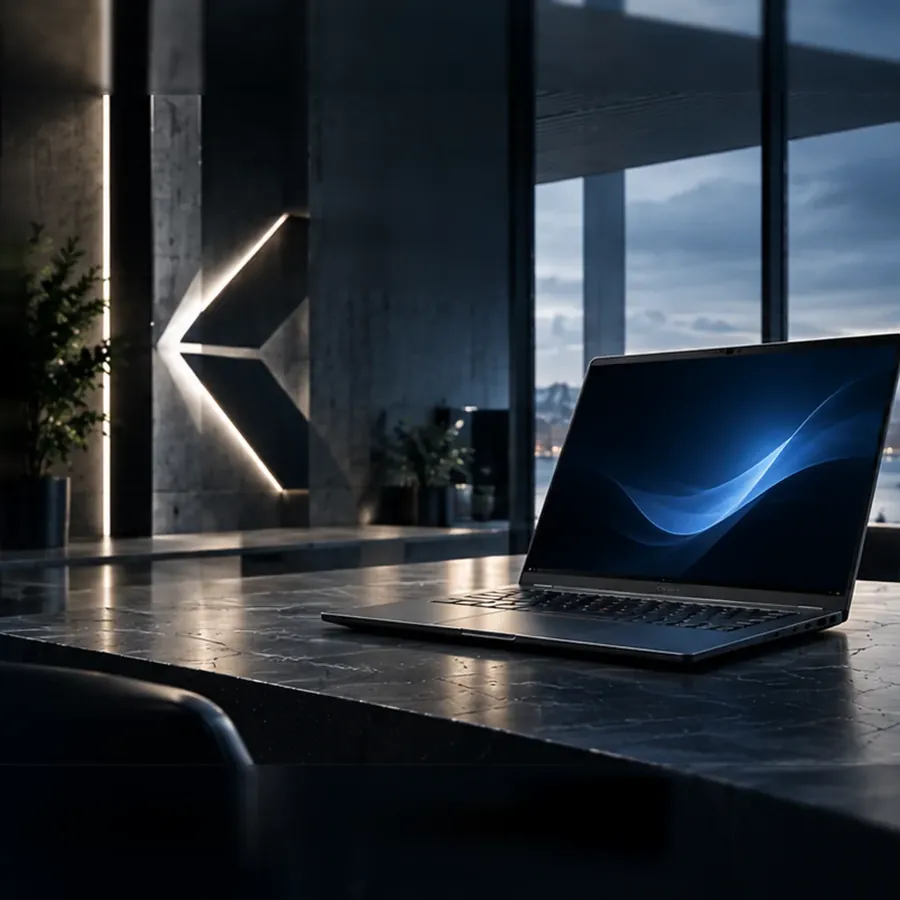
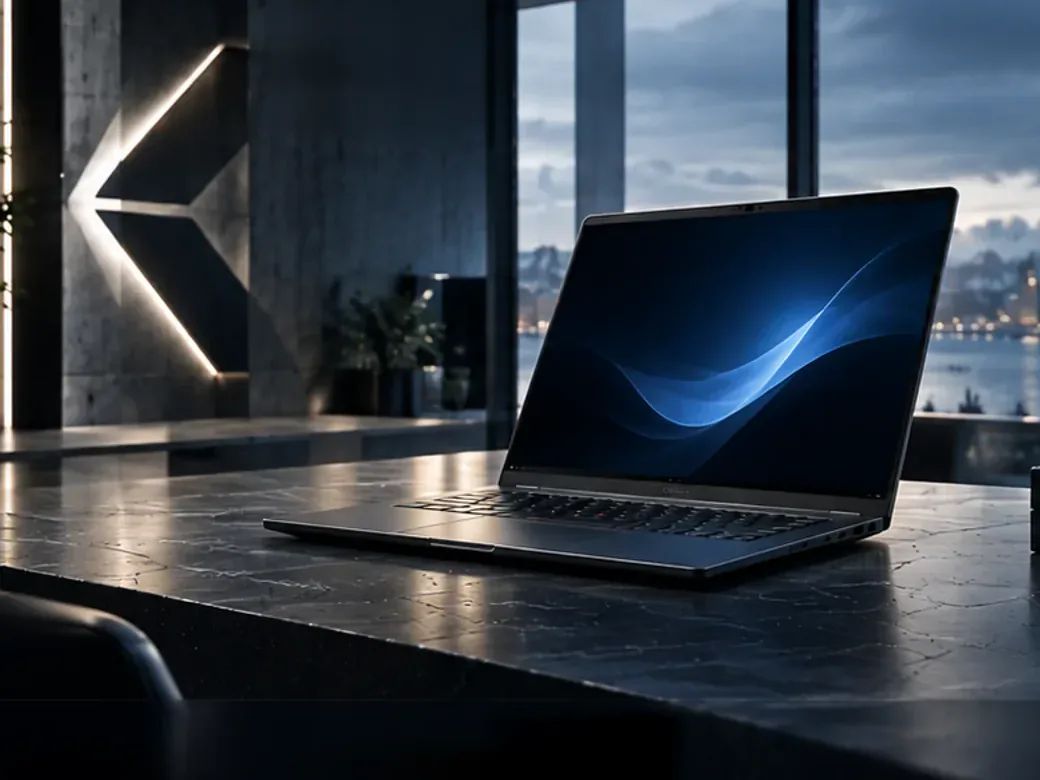
Mobile first screen: one sentence, the whole machine, three facts, no seam
Scored strictly at 390x740 (an iPhone 15 under Safari's floating bars),
375x553 and 430x830, from a phone screenshot of the live site: 6.4/10.

- The headline is sized to its longest word on a phone: 9.2vw, so
  "erhvervscomputere." fills the column (36px at 390, 29px at 320) instead
  of a 30px floor in a 358px column. From md the old sizing applies.
- The sub line is one sentence in one colour on a phone, balanced, with
  "erhvervs-IT" kept whole: as two block spans it broke into "…erhvervs-" /
  "IT til virksomheder" / a dimmer third line in Safari.
- One primary action: the second button is a quiet 44px link on a phone,
  not a second full-width bar of the same height.
- Three facts on the first screen — tested, Nordic keyboard, delivery to DK
  and NO — the feature strip's own, which it now leaves to wide screens so
  they are not said twice. Dots rather than icons, so the row holds one line
  from 320 up.
- The phone's picture is a new 4:3 cut from the cleaned plate with the whole
  machine and the lit K in frame (the square cut the laptop off), shorter
  fades, and tighter spacing above and below the copy, so it enters the
  first screen on a 390 phone.
- No seam: the bar's colour carries down into the hero on a phone, and the
  bar's hairline fades in with scroll (scroll-driven, Safari 26 and Chrome;
  elsewhere it stays as it was).

Measured after: tap targets 44px or more, accent line 5.00:1, no
[…]

diff --git a/components/Hero.tsx b/components/Hero.tsx
@@ -31,6 +31,7 @@ const copy = {
     subLead: "Kestro er leverandør af brugt erhvervs-IT til virksomheder",
     sub: "i Danmark og Norge – testet og klar til brug.",
     secondary: "Se hvad vi skaffer",
+    proof: ["Testet", "Nordisk tastatur", "Levering i DK & NO"],
   },
   en: {
     headlineTop: ["Refurbished", "business computers."],
@@ -38,8 +39,26 @@ const copy = {
     subLead: "Kestro is a supplier of used business IT to companies",
     sub: "in Denmark and Norway — tested and ready to use.",
     secondary: "Explore computers",
+    proof: ["Tested", "Nordic keyboard", "Delivery to DK & NO"],
   },
 } satisfies Record<Lang, Record<string, string | string[]>>;
+
+/* "erhvervs-IT" as one unbreakable unit. A browser may break a line after a
+   hyphen, and Safari did exactly that on an iPhone; a nowrap span keeps the
+   word in the text as written, which a non-breaking hyphen character would
+   not. */
+function keepTerm(text: string) {
+  const term = "erhvervs-IT";
+  const i = text.indexOf(term);
+  if (i < 0) return text;
+  return (
+    <>
+      {text.slice(0, i)}
+      <span className="whitespace-nowrap">{term}</span>
+      {text.slice(i + term.length)}
+    </>
+  );
+}
 
 export default function Hero({ lang }: { lang: Lang }) {
   const c = copy[lang];
@@ -126,6 +145,15 @@ export default function Hero({ lang }: { lang: Lang }) {
         fetchPriority="high"
       />
 
+      {/* The header's own colour carried down into the hero on a phone. The
+          bar ends on rgb(4 8 18) and the hero starts on brand-950, so the two
+          met on a visible step; this lets the bar dissolve into the page. */}
+      <div
+        aria-hidden="true"
+        className="pointer-events-none absolute inset-x-0 top-0 h-48 md:hidden"
+        style={{ background: "linear-gradient(180deg, rgb(4,8,18) 0%, rgba(4,8,18,0) 100%)" }}
+      />
+
       <div
         aria-hidden="true"
         className="pointer-events-none absolute inset-0 hidden bg-cover bg-center bg-no-repeat md:block"
@@ -168,7 +196,7 @@ export default function Hero({ lang }: { lang: Lang }) {
                   back until 2xl: below that the frame has no spare height to
                   give, and asking for it only makes the box taller than the
                   photograph's own ratio, which is paid for in cropped sides. */
-        className="relative z-10 flex flex-1 items-center pb-12 pt-12 sm:pb-14 sm:pt-14 lg:pb-10 lg:pt-8 2xl:pb-24 2xl:pt-10"
+        className="relative z-10 flex flex-1 items-center pb-5 pt-6 sm:pb-14 sm:pt-14 lg:pb-10 lg:pt-8 2xl:pb-24 2xl:pt-10"
       >
         <Container>
           <div className="max-w-2xl lg:max-w-[54%]">
@@ -177,7 +205,7 @@ export default function Hero({ lang }: { lang: Lang }) {
                   the English: "Erhvervscomputere." is one 18-character word
                   that cannot break, and at too large a cap it runs straight
                   out of this column and into the machine beside it. */}
-              <h1 className="font-display text-[clamp(1.85rem,2.63vw,3.25rem)] font-extrabold leading-[1.02] tracking-display">
+              <h1 className="hero-title font-display font-extrabold leading-[1.02] tracking-display">
                 {/* w-fit, not just block. A block span fills the column, and
                     the contrast check samples the whole box it is given — so
                     the blue line was being measured against the lit stone 150px
@@ -197,13 +225,46 @@ export default function Hero({ lang }: { lang: Lang }) {
                 <span className="block w-fit text-brand-500">{c.headlineAccent}</span>
               </h1>
 
-              <p className="mt-5 max-w-xl text-[clamp(0.95rem,0.98vw,1.2rem)] leading-[1.72]">
-                <span className="block text-paper">{c.subLead} </span>
-                <span className="block text-paper/75">{c.sub}</span>
+              {/* One sentence on a phone, two lines from md. As two block
+                  spans on a phone it broke into a long line, a short line and
+                  a dimmer third — "…erhvervs-" / "IT til virksomheder" / "i
+                  Danmark…" on an iPhone, which read as three fragments in two
+                  colours. Inline below md it flows as the sentence it is, in
+                  one colour; "erhvervs-IT" is kept whole, because a line that
+                  ends on "erhvervs-" splits the one term a buyer searches. */}
+              <p className="mt-4 max-w-xl text-base leading-[1.6] text-paper/85 max-md:text-balance md:mt-5 md:text-[clamp(0.95rem,0.98vw,1.2rem)] md:leading-[1.72]">
+                <span className="md:block md:text-paper">{keepTerm(c.subLead)} </span>
+                <span className="md:block md:text-paper/75">{c.sub}</span>
               </p>
+
+              {/* Three facts on the first screen of a phone. On a wide screen
+                  they are in the strip under the photograph, in view with the
+                  headline; on a phone that strip starts below the fold, so the
+                  first screen had a promise and a button and nothing a buyer
+                  could check. They are the strip's own first, second and last
+                  facts, and the strip hides those three on a phone so they are
+                  not said twice. */}
+              {/* Dots, not check icons: three icons and their gaps made the row
+                  344px wide, so it broke onto a second line on every phone
+                  narrower than 390 — the iPhone mini, the SE and most Android
+                  phones at 360. Text with a dot between holds one line down
+                  to 320. */}
+              <ul className="mt-4 flex flex-wrap items-center gap-y-1 text-[13px] font-medium leading-5 text-paper/75 max-[359px]:text-xs md:hidden">
+                {c.proof.map((fact, i) => (
+                  <li key={fact} className="flex items-center">
+                    {i > 0 && (
+                      <span aria-hidden="true" className="mx-2 h-1 w-1 rounded-full bg-brand-300" />
+                    )}
+                    {fact}
+                  </li>
+                ))}
+              </ul>
             </div>
 
-            <div className="rise rise-1 mt-9 flex flex-col gap-3 sm:flex-row sm:items-center sm:gap-4">
+            {/* One primary action. On a phone the second one is a quiet link
+                under it rather than a second full-width box of the same
+                height, which made two equal bars compete for the thumb. */}
+            <div className="rise rise-1 mt-6 flex flex-col gap-1 sm:mt-9 sm:flex-row sm:items-center sm:gap-4">
               {/*
                 The same words as the header's button and the closing one,
                 from lib/nav.ts. There is one primary action on this site and
@@ -217,6 +278,7 @@ export default function Hero({ lang }: { lang: Lang }) {
                 intent="secondary"
                 size="lg"
                 icon={<LayoutGrid className="h-4 w-4 text-paper/65" strokeWidth={2} />}
+                className="max-sm:min-h-[44px] max-sm:border-transparent max-sm:bg-transparent max-sm:text-paper/85"
               >
                 {c.secondary}
               </Button>
@@ -241,18 +303,19 @@ export default function Hero({ lang }: { lang: Lang }) {
 
         So the picture gets a frame of its own at a ratio it can hold, after
         the words and before the facts, which is the shape of every mobile hero
-        that works. The file is the phone's own cut: a square taken at 56%
-        across the plate, chosen by rendering four candidates and looking, which
-        holds the lit K, the machine and the water. 33kB against the desktop's
-        85. The top edge fades into the copy above rather than starting on a
-        line.
+        that works. The file is the phone's own cut, 4:3 from the cleaned
+        plate (1040x780 from x 1040, y 210): the whole lit K, the whole machine
+        and the water. The square it replaced cut the laptop off at the right
+        edge. 37kB against the desktop's 85. The top edge fades into the copy
+        above and the bottom into the facts below, so it starts and ends
+        without a line.
       */}
       <div
         aria-hidden="true"
         className="relative z-10 aspect-[4/3] w-full bg-cover bg-center bg-no-repeat md:hidden"
         style={{
           backgroundImage:
-            "linear-gradient(180deg, rgb(11,20,38) 0%, rgba(11,20,38,0.6) 12%, rgba(11,20,38,0) 32%), url(/hero/scene-mobile.webp)",
+            "linear-gradient(180deg, rgb(11,20,38) 0%, rgba(11,20,38,0.5) 7%, rgba(11,20,38,0) 17%, rgba(11,20,38,0) 82%, rgba(8,13,27,0.85) 100%), url(/hero/scene-mobile.webp)",
         }}
       />
 

diff --git a/app/globals.css b/app/globals.css
@@ -259,6 +259,36 @@ body {
   }
 
   /*
+   * No edge on the bar until the page moves.
+   *
+   * On a phone the front page's hero carries the bar's own colour down into
+   * itself, so at the top of the page the hairline under the bar was the only
+   * seam left on the first screen. The line is there to separate the bar from
+   * content scrolling under it; before anything scrolls, there is nothing to
+   * separate. Where scroll-driven animation is supported (Safari 26, Chrome)
+   * the edge fades in over the first 48px of scroll; elsewhere it simply
+   * stays, as before.
+   */
+  @media (max-width: 767px) {
+    @supports (animation-timeline: scroll()) {
+      .glass-nav {
+        animation: nav-edge linear both;
+        animation-timeline: scroll(root);
+        animation-range: 0 48px;
+      }
+    }
+  }
+
+  @keyframes nav-edge {
+    from {
+      border-bottom-color: transparent;
+    }
+    to {
+      border-bottom-color: rgb(255 255 255 / 0.06);
+    }
+  }
+
+  /*
    * The floating panel the products menu opens into.
    *
    * It used to share .glass-nav, which is wrong now that .glass-nav is a
@@ -437,6 +467,26 @@ body {
   .t-h3 {
     font-size: clamp(1.0625rem, 1.45vw, 1.3125rem);
     line-height: 1.35;
+  }
+
+  /*
+   * The front page's h1, the one heading sized to its own longest word.
+   *
+   * "erhvervscomputere." is 18 characters that cannot break, about 9.5em
+   * wide. On a phone the column is the viewport less two 16px gutters, so
+   * 9.2vw is the size at which that word fills it without overflowing — 36px
+   * at 390, 29px at 320 — where the old floor of 1.85rem left a 30px
+   * headline in a 358px column. From md the words sit beside the photograph,
+   * and the old desktop sizing applies.
+   */
+  .hero-title {
+    font-size: clamp(1.75rem, 9.2vw, 2.4rem);
+  }
+
+  @media (min-width: 768px) {
+    .hero-title {
+      font-size: clamp(1.85rem, 2.63vw, 3.25rem);
+    }
   }
 
   /*

diff --git a/components/FeatureStrip.tsx b/components/FeatureStrip.tsx
@@ -47,13 +47,23 @@ const features = [
   sub: Record<Lang, string>;
 }[];
 
+const ONLY_WIDE = new Set<CraftMarkName>(["tested", "nordic", "delivery"]);
+
 export default function FeatureStrip({ lang }: { lang: Lang }) {
   return (
     <div className="relative z-10 border-y border-white/10 bg-ink-950/70">
       <Container>
         <ul className="grid grid-cols-1 gap-x-6 gap-y-5 py-7 sm:grid-cols-3 sm:gap-y-6 sm:py-8 lg:grid-cols-5 lg:gap-x-7">
           {features.map((feature) => (
-            <li key={feature.title.da} className="flex items-center gap-3.5">
+            /* On a phone the hero's proof row already states tested, Nordic
+               and delivery above the fold, so here those three are left to
+               the wide screens and the strip carries the other two. */
+            <li
+              key={feature.title.da}
+              className={`flex items-center gap-3.5 ${
+                ONLY_WIDE.has(feature.mark) ? "max-md:hidden" : ""
+              }`}
+            >
               {/* In the site's one mark tile. Bare on the bar, the five marks
                   were line drawings floating on a strip of navy — the row a
                   buyer sees first, reading as a system icon font. The tile is
